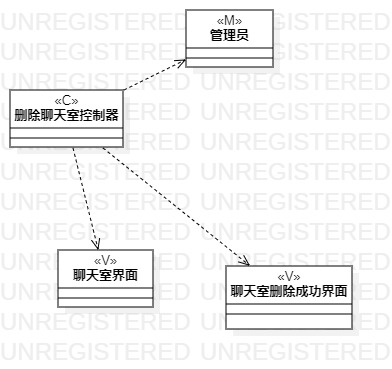
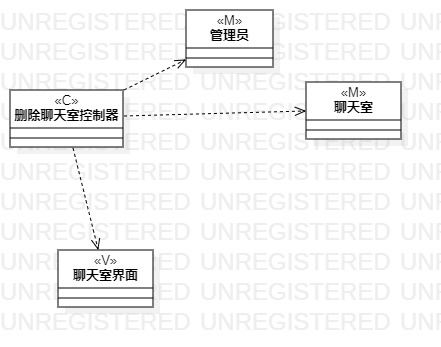
第6次实验上传

diff --git a/students/1714080902511/lab6.md b/students/1714080902511/lab6.md
@@ -1,0 +1,18 @@
+# 实验二：过程建模
+
+## 实验目标
+ + 掌握如何画顺序图方法
+ + 完成自身项目的顺序图建模
+
+## 实验内容
+ + 从用例图找到第一个参与者
+ + 从类图中找到n个参与者，总共n+1个参与者
+ + 从活动图中找到参与步骤，画出参与者之间的关系
+
+## 实验结果
+ + 创建聊天室类图
+![图一](./lab6_创建聊天室.jpg)
+ + 聊天室发言类图
+![图二](./lab6_聊天室发言.jpg)
+ + 删除聊天室类图
+![图三](./lab6_删除聊天室.jpg)

diff --git a/students/1714080902511/lab4.md b/students/1714080902511/lab4.md
@@ -5,10 +5,10 @@
  + 完成自身项目的类建模
 
 ## 实验内容
- + 找出模型中的模型（数据类）和视图
- + 确定模型的控制类
- + 连接控制类和其他所有模型和视图
- + 根据模型类之间的关系确定聚合关系并连接
+ + 通过用例建模及过程建模找出mvc模式中的模型和视图
+ + 确定模型的控制组件
+ + 连接控制逐渐和其他所有模型和视图
+ + 根据模型之间的关系确定聚合关系并连接
 
 ## 实验结果
  + 创建聊天室类图
